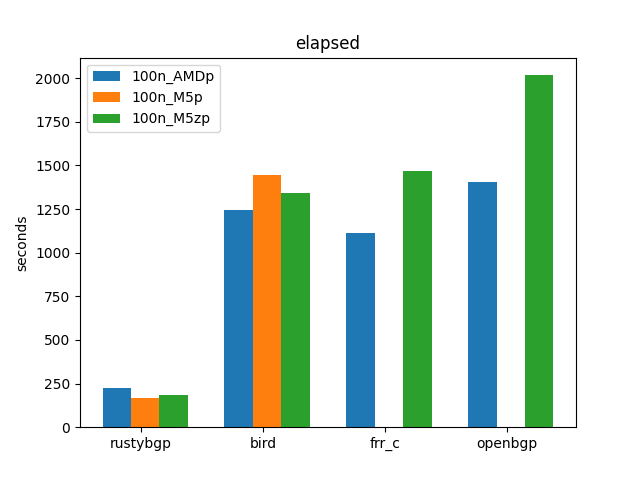
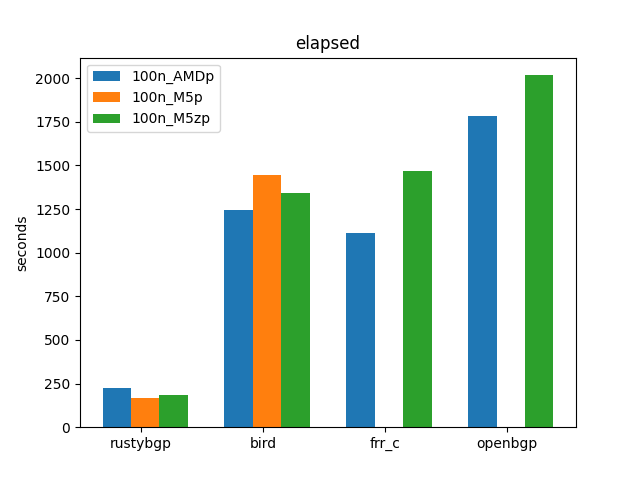
removed bird separate table and updated graph for openbgp for the bgp5 post

Changed region(s): [[0.7188, 0.2188, 0.7812, 0.4062]]

diff --git a/_drafts/2021-10-101-bgp-perf5-1000-internet-neighbors.md b/_drafts/2021-10-101-bgp-perf5-1000-internet-neighbors.md
@@ -230,28 +230,6 @@ memory used by target:
 
 Other than the neighbor graph showing it getting stuck for almost an hour, nothing much interesting going on here.
 
-## BIRD separate table per neighbor
-BIRD in which each neighbor has it's own table cannot even do 100 neighbors. It gets to 88 neighbors and then stops. The CPU utilization drops to 0. Not sure what is going on between BIRD and bgdpdump2.
-
-prefixes received at the monitor:
-
-![prefixes received at monitor](/assets/images/2021-10-bgp-5/bird-no-s_bgpdump2_800000_100_mon_received.png)
-
-number of neighbors that the target has received all it's prefixes:
-
-![neighbors full received routes](/assets/images/2021-10-bgp-5/bird-no-s_bgpdump2_800000_100_neighbors.png)
-
-CPU utilization of the target:
-
-![cpu](/assets/images/2021-10-bgp-5/bird-no-s_bgpdump2_800000_100_cpu.png)
-
-memory used by target:
-
-![memory used](/assets/images/2021-10-bgp-5/bird-no-s_bgpdump2_800000_100_mem_used.png)
-
-% idle of the machine:
-
-![% idle of machine](/assets/images/2021-10-bgp-5/bird-no-s_bgpdump2_800000_100_machine_idle.png)
 ## OpenBGPD
 OpenBGPD at 300 finishes, but takes so long that I'm not sure that should really count. Well, I didn't let it finish, it was going to ran out of memory on the machine I was using, it was past my bedtime and I didn't want to get charged for a machine over night.
 
